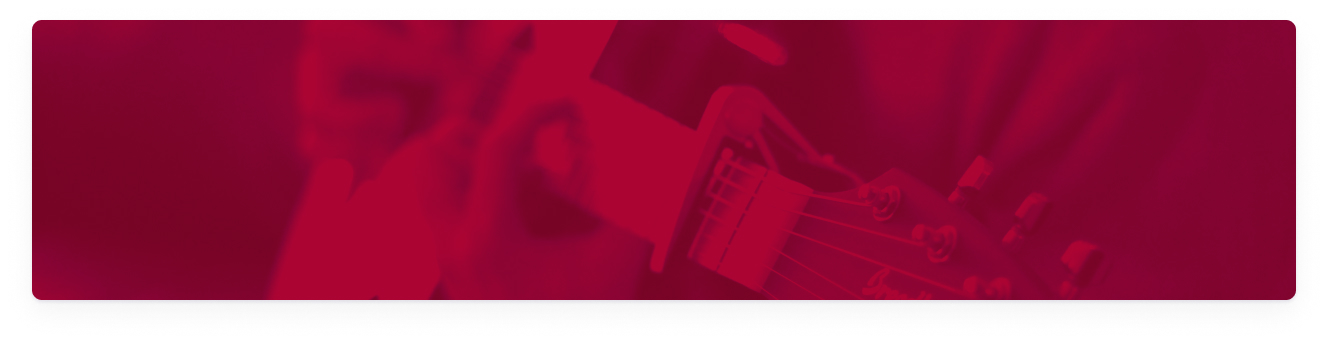
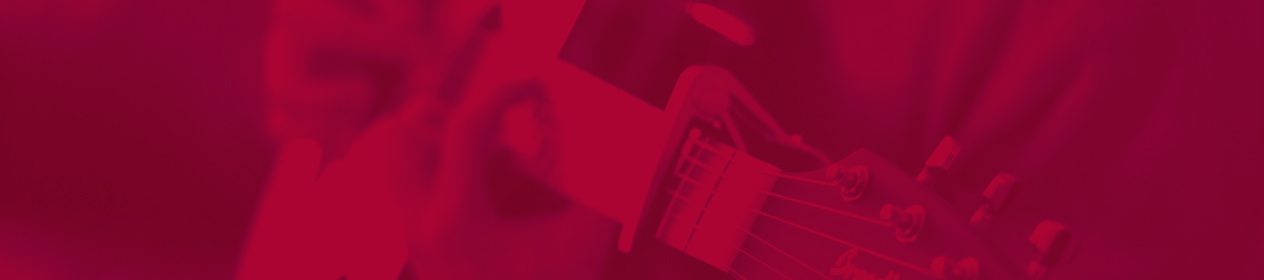
tablet

diff --git a/css/style.css b/css/style.css
@@ -11,10 +11,11 @@
 
 .header {
   display: grid;
-  grid-template-rows: min-content min-content 1fr;
+  grid-template-rows: 1fr 1fr 1fr;
   background: url("../img/header/Bg-header-mobile.jpg");
   background-size: cover;
-  padding: 0 24px;
+  padding: 58px 24px 0 24px;
+  height: 449px;
 }
 @media (min-resolution: 2dppx) {
   .header {
@@ -22,16 +23,23 @@
     background-size: cover;
   }
 }
+@media (min-width: 760px) {
+  .header {
+    background: url("../img/header/Bg-header-tablet.jpg");
+    background-size: cover;
+    height: 742px;
+    padding: 71px 64px 0 64px;
+  }
+}
 
 .header__top-wrapper {
   display: flex;
   justify-content: space-between;
-  margin-top: 58px;
   height: 40px;
 }
 
 .header__heading {
-  margin-top: 100px;
+  align-self: start;
 }
 
 .heading {
@@ -43,10 +51,28 @@
   text-align: center;
   color: #FFFFFF;
 }
+@media (min-width: 760px) {
+  .heading {
+    text-align: left;
+    font-size: 56px;
+    line-height: 120%;
+  }
+}
 
 .header__sample {
   position: relative;
   top: 85px;
+}
+@media (min-width: 760px) {
+  .header__sample {
+    top: 131px;
+  }
+}
+
+@media (min-width: 760px) {
+  .logo {
+    width: 308px;
+  }
 }
 
 .header-nav__toggle {
@@ -100,18 +126,23 @@
 
 .sample {
   padding: 18px 51px;
-  margin: 25px auto 0 auto;
-  max-width: 226px;
   display: flex;
   flex-flow: column;
   text-align: center;
   background: no-repeat url("../img/header/Ad-Mobile.jpg");
   background-size: cover;
-  border-radius: 13px;
+  border-radius: 10px;
 }
 @media (min-resolution: 2dppx) {
   .sample {
     background: url("../img/header/Ad-Mobile@2x.jpg");
+  }
+}
+@media (min-width: 760px) {
+  .sample {
+    padding: 49.5px 139px;
+    background: no-repeat url("../img/header/Ad-Tablet.jpg");
+    background-size: cover;
   }
 }
 
@@ -123,6 +154,12 @@
   line-height: 121%;
   color: #FFFFFF;
 }
+@media (min-width: 760px) {
+  .sample__heading {
+    font-size: 46px;
+    line-height: 120%;
+  }
+}
 
 .sample__text {
   margin: 4px 0 16px 0;
@@ -131,6 +168,12 @@
   font-size: 10px;
   line-height: 149%;
   color: #FFFFFF;
+}
+@media (min-width: 760px) {
+  .sample__text {
+    font-size: 24px;
+    line-height: 149%;
+  }
 }
 
 .button {
@@ -144,7 +187,6 @@
   font-size: 12px;
   line-height: 130%;
 }
-
 .card {
   display: flex;
   flex-flow: column;

diff --git a/css/blocks/_header.scss b/css/blocks/_header.scss
@@ -2,26 +2,37 @@
 
 .header{
   display: grid;
-  grid-template-rows: min-content min-content 1fr;
+  grid-template-rows: 1fr 1fr 1fr;
   background: url('../img/header/Bg-header-mobile.jpg');
   background-size: cover;
-  padding: 0 24px;
+  padding: 58px 24px 0 24px;
+  height: 449px;
+
+
 
   @media(min-resolution: 2dppx) {
     background: url('../img/header/Bg-header-mobile@2x.jpg');
     background-size: cover;
   }
 
+  @media(min-width: $tablet) {
+    background: url('../img/header/Bg-header-tablet.jpg');
+    background-size: cover;
+    height: 742px;
+    padding: 71px 64px 0 64px;
+
+  }
+
 }
 .header__top-wrapper {
   display:flex;
   justify-content: space-between;
-  margin-top: 58px;
   height: 40px;
+
 }
 
 .header__heading {
-  margin-top: 100px;
+  align-self: start;
 }
 
 .heading {
@@ -33,10 +44,24 @@
   text-align: center;
 
   color: $header;
+  @media(min-width: $tablet) {
+    text-align: left;
+    font-size: 56px;
+    line-height: 120%;
+  }
 
 }
 .header__sample {
   position: relative;
   top: 85px;
+  @media(min-width: $tablet) {
+    top: 131px;
+  }
 
+}
+
+.logo {
+  @media(min-width: $tablet){
+    width: 308px;
+  }
 }

diff --git a/css/blocks/_sample.scss b/css/blocks/_sample.scss
@@ -1,18 +1,24 @@
 .sample {
   padding: 18px 51px;
-  margin: 25px auto 0 auto;
-  max-width: 226px;
   display: flex;
   flex-flow: column;
   text-align: center;
 
   background: no-repeat url("../img/header/Ad-Mobile.jpg");
   background-size: cover;
-  border-radius: 13px;
+  border-radius: 10px;
 
   @media(min-resolution: 2dppx) {
     background: url('../img/header/Ad-Mobile@2x.jpg');
   }
+  @media(min-width: $tablet) {
+    padding: 49.5px 139px;
+
+    background: no-repeat url("../img/header/Ad-Tablet.jpg");
+    background-size: cover;
+  }
+
+
 }
 
 .sample__heading {
@@ -23,6 +29,10 @@
   line-height: 121%;
 
   color: $header;
+  @media(min-width: $tablet) {
+    font-size: 46px;
+    line-height: 120%;
+  }
 }
 
 .sample__text {
@@ -33,6 +43,10 @@
   line-height: 149%;
 
   color: $header;
+  @media(min-width: $tablet) {
+    font-size: 24px;
+    line-height: 149%;
+  }
 }
 
 .button{
@@ -46,5 +60,8 @@
   font-weight: 600;
   font-size: 12px;
   line-height: 130%;
+  @media(min-width: $tablet) {
+
+  }
 }
 

diff --git a/index.html b/index.html
@@ -41,7 +41,7 @@
   </div>
   <div class="header__sample">
     <div class="sample">
-      <h2 class="sample__heading">FREE GUITAR <br>LESSONS!</h2>
+      <h2 class="sample__heading">FREE GUITAR LESSONS!</h2>
       <p class="sample__text">Purchase any guitar over $499.99 and recieve a one-hour guitar lesson free. </p>
       <span class="sample__button">
         <button class="button">LEARN MORE</button>
